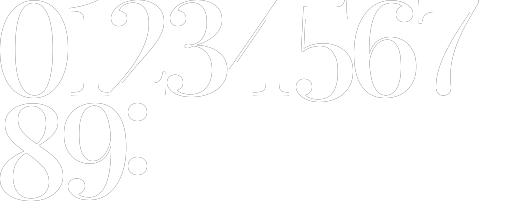
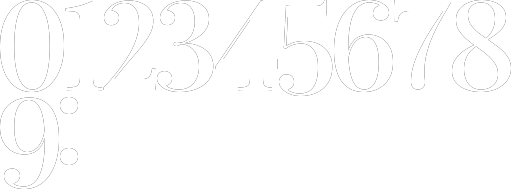
Watch face: README image, and room for a 24-hour time
A four-digit time ran into the arc values at mid-height, so the values
move to the arcs' top ends and the time drops from 132 to 124 px. The
main README gains a watch face row, an image (fictional values) and a
link to hart-watchface/README.md.

diff --git a/hart-watchface/tools/make_assets.py b/hart-watchface/tools/make_assets.py
@@ -43,7 +43,7 @@ class Spec:
 
 
 SPECS = [
-    Spec("time", "playfair-display-latin-wght-normal.woff2", 500, 132, DIGITS + ":"),
+    Spec("time", "playfair-display-latin-wght-normal.woff2", 500, 124, DIGITS + ":"),  # "00:00" fits between the arcs
     Spec("label", "inter-latin-wght-normal.woff2", 400, 24, UPPER + DIGITS + " ", tracking=3),
     Spec("body", "inter-latin-wght-normal.woff2", 400, 26, ASCII),
     Spec("small", "inter-latin-wght-normal.woff2", 400, 20, ASCII),

diff --git a/README.md b/README.md
@@ -40,6 +40,7 @@ you). Your data stays in one DuckDB file on your machine.
 | **Strength** | Progression per lift (top sets, estimated 1-rep max, 8-week change), sessions per week against your target; lifts Garmin names differently can be merged ("Barbell Deadlift" = "Deadlift"). |
 | **Health** | Lab results with trends, and reminders computed from them: follow-ups on flagged results, regular panels timed to your season, a pre-race medical, physio check-ins. |
 | **Ember** | Chat with an AI coach-analyst that reads your data through hart's tools, never invents numbers, and proposes changes (notes, plan, season, health checks) that you approve. |
+| **Watch face** | A Garmin Forerunner 965 face in hart's style (optional): time, Body Battery, heart rate and steps, plus today's readiness, training phase, form and a countdown to your A-race, fetched from hart through your phone. |
 | **Discord** | A message with each session's grade, an evening message with tomorrow's plan and suggestion, today's sessions and open alerts — and, with a bot, chat with Ember right there: reply to the message or tag @Ember in the channel. |
 
 | Session grade, judged rep by rep | Daily suggestion — and Ember's take on the coach's plan |
@@ -47,8 +48,8 @@ you). Your data stays in one DuckDB file on your machine.
 | ![An interval ride graded C: reps 1–2 on target, the last faded — with execution, response and context scores](docs/images/session.webp) | ![Next Steps: Ember partly disagrees with the coach's tempo run and suggests an easy run with strides](docs/images/plan.webp) |
 | **Strength progression** | **Fitness, fatigue and form over the season** |
 | ![Deadlift top sets and estimated 1-rep max over six months](docs/images/strength.webp) | ![Performance-management chart with a cold and a training camp marked](docs/images/fitness.webp) |
-| **Health checks from lab results** | |
-| ![Reminders: a blood panel due, a vitamin D follow-up, a planned TSH re-check, a physio check-in](docs/images/health.webp) | |
+| **Health checks from lab results** | **Watch face, and its always-on mode** |
+| ![Reminders: a blood panel due, a vitamin D follow-up, a planned TSH re-check, a physio check-in](docs/images/health.webp) | ![Garmin watch face: time, Body Battery and battery arcs, readiness and phase, heart rate, steps, form and race countdown; beside it the outlined always-on time](docs/images/watchface.webp) |
 
 **Suggestions follow hard rules.** Code, not the model, checks every suggestion: no hard sessions on a red
 readiness day, the limits in your notes ("swim only on Thursday", weekly strength sessions), comeback
@@ -108,6 +109,7 @@ add your races on the Season page, and set your name, power meter and whether yo
 - [Architecture](docs/architecture.md) — how the pieces fit: sync pipeline, jobs, Ember, grading, suggestions
 - [Security & privacy](docs/security.md) — sign-in, what Claude can and can't do, what leaves your server
 - [Development](docs/development.md) — local setup, tests, project layout
+- [Watch face](hart-watchface/README.md) — building and installing the Garmin face, connecting it to hart
 
 ## Using hart from Claude Code
 

diff --git a/hart-watchface/README.md b/hart-watchface/README.md
@@ -1,5 +1,7 @@
 # hart watch face
 
+![The face with hart data (fictional values), and its always-on mode](../docs/images/watchface.webp)
+
 A Connect IQ watch face for the Forerunner 965 in the hart web UI's style: Playfair Display time,
 Body Battery and watch-battery arcs, heart rate and steps. In always-on mode it
 draws outlined digits in the same place as the active face, drifting by 2px each minute
